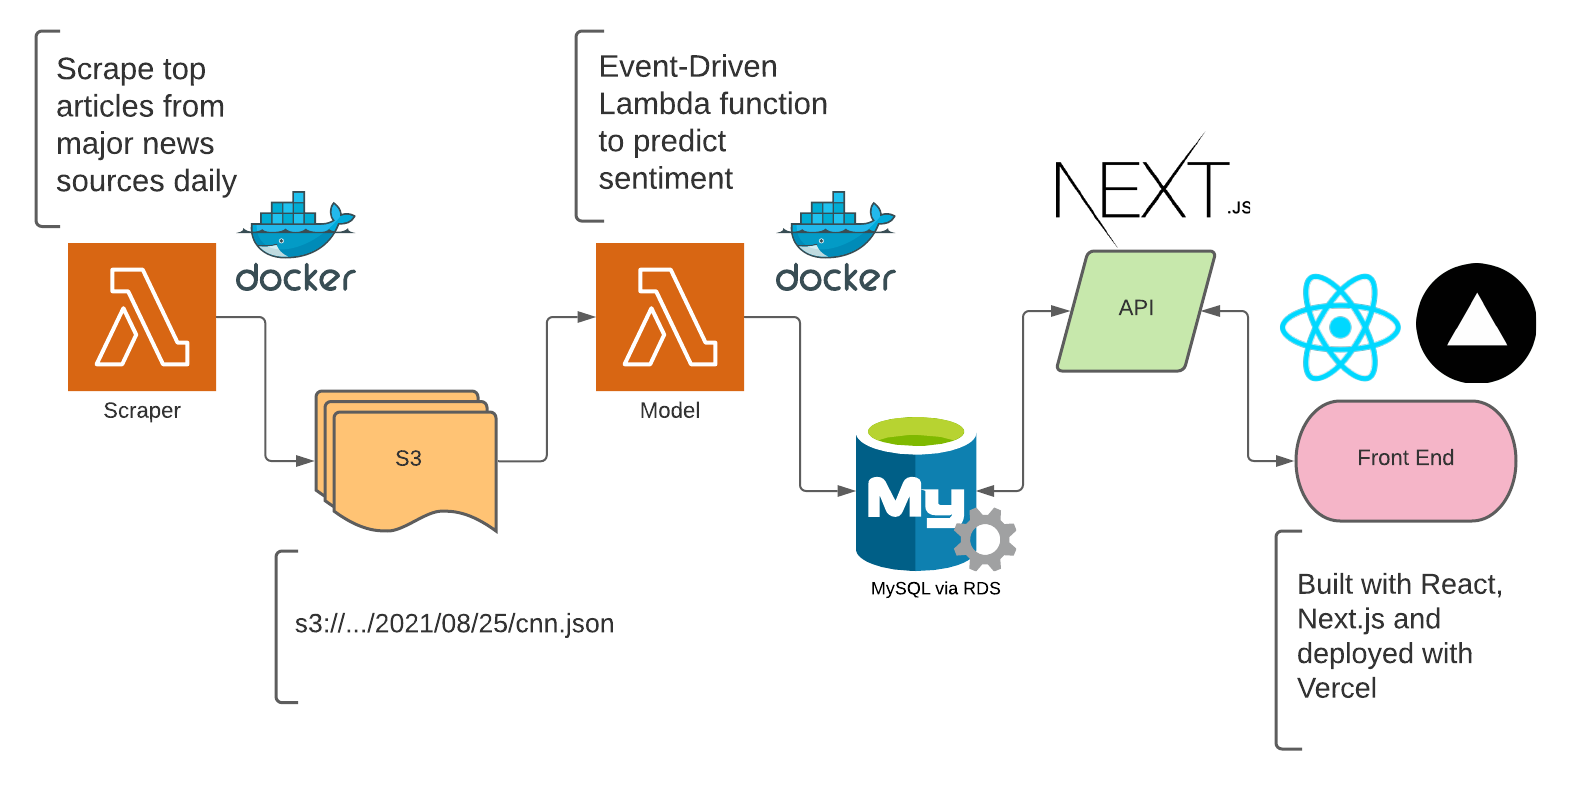
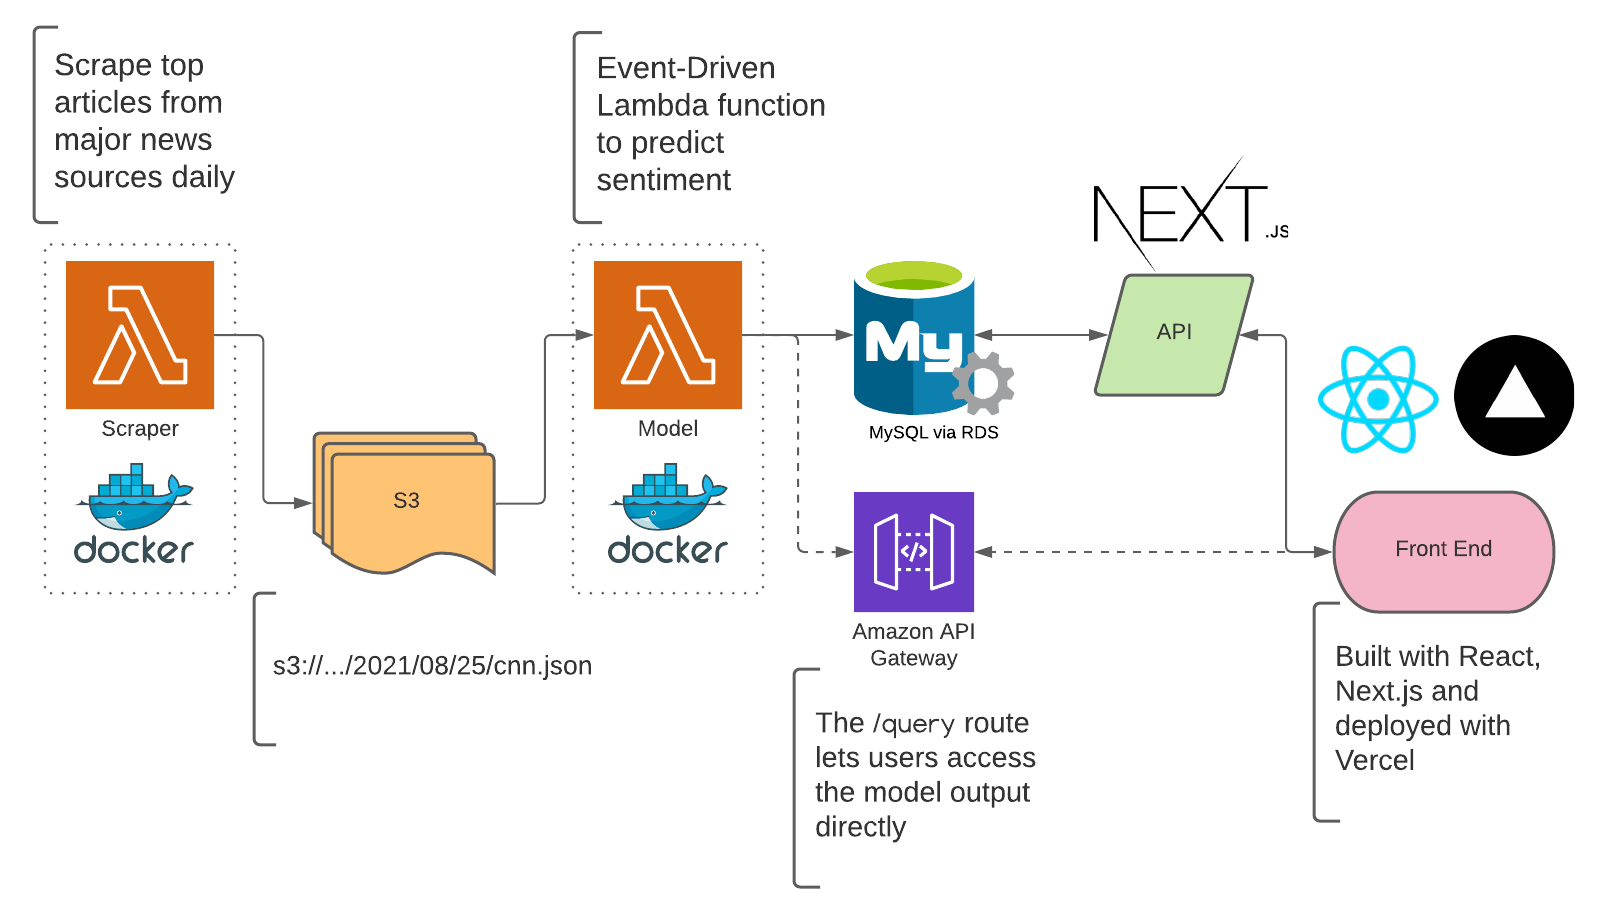
update images, add model image to /about page

diff --git a/pages/about.js b/pages/about.js
@@ -11,6 +11,7 @@ import Image from "next/image";
 import OverviewImg from "../public/images/Overview_News_You_Choose.png";
 import LambdaImg from "../public/images/Detailed_View_News_You_Choose_Lambda.png";
 import DatabaseImg from "../public/images/Database_ERD.png";
+import ModelImg from "../public/images/Detailed_View_Model_Structure.jpg";
 
 const useStyles = makeStyles((theme) => ({
   marginAutoContainer: {
@@ -104,6 +105,18 @@ export default function About() {
           align="center"
         >
           <Image src={LambdaImg} />
+        </Grid>
+        <Typography gutterBottom variant="h4">
+          Detailed View - Model Architecture
+        </Typography>
+        <Grid
+          item
+          xs={12}
+          sm={12}
+          className={classes.marginAutoContainer}
+          align="center"
+        >
+          <Image src={ModelImg} />
         </Grid>
         <Typography gutterBottom variant="h4">
           Detailed View - Database ERD
